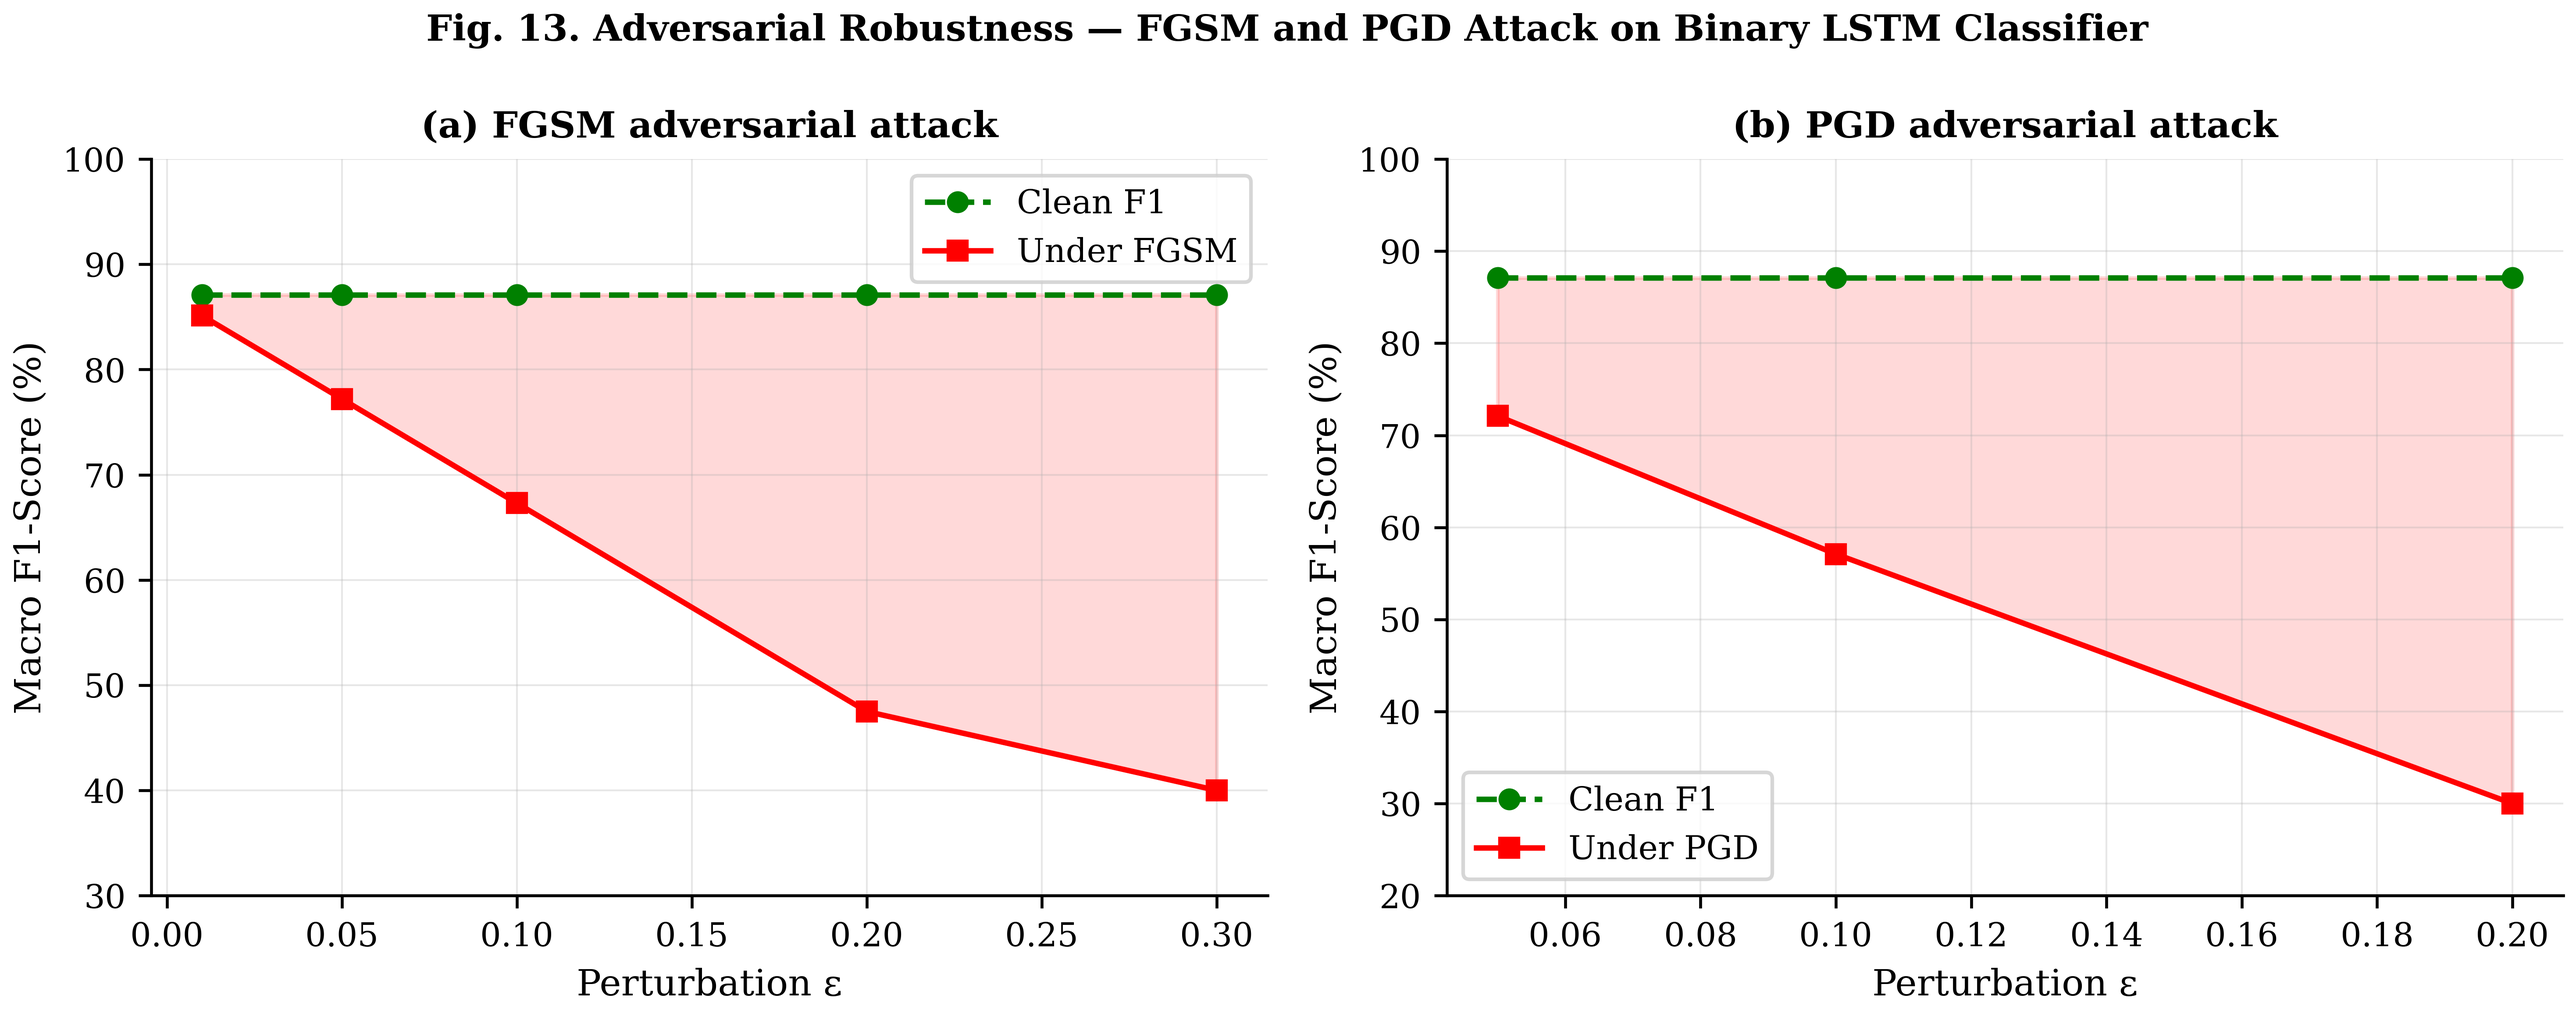
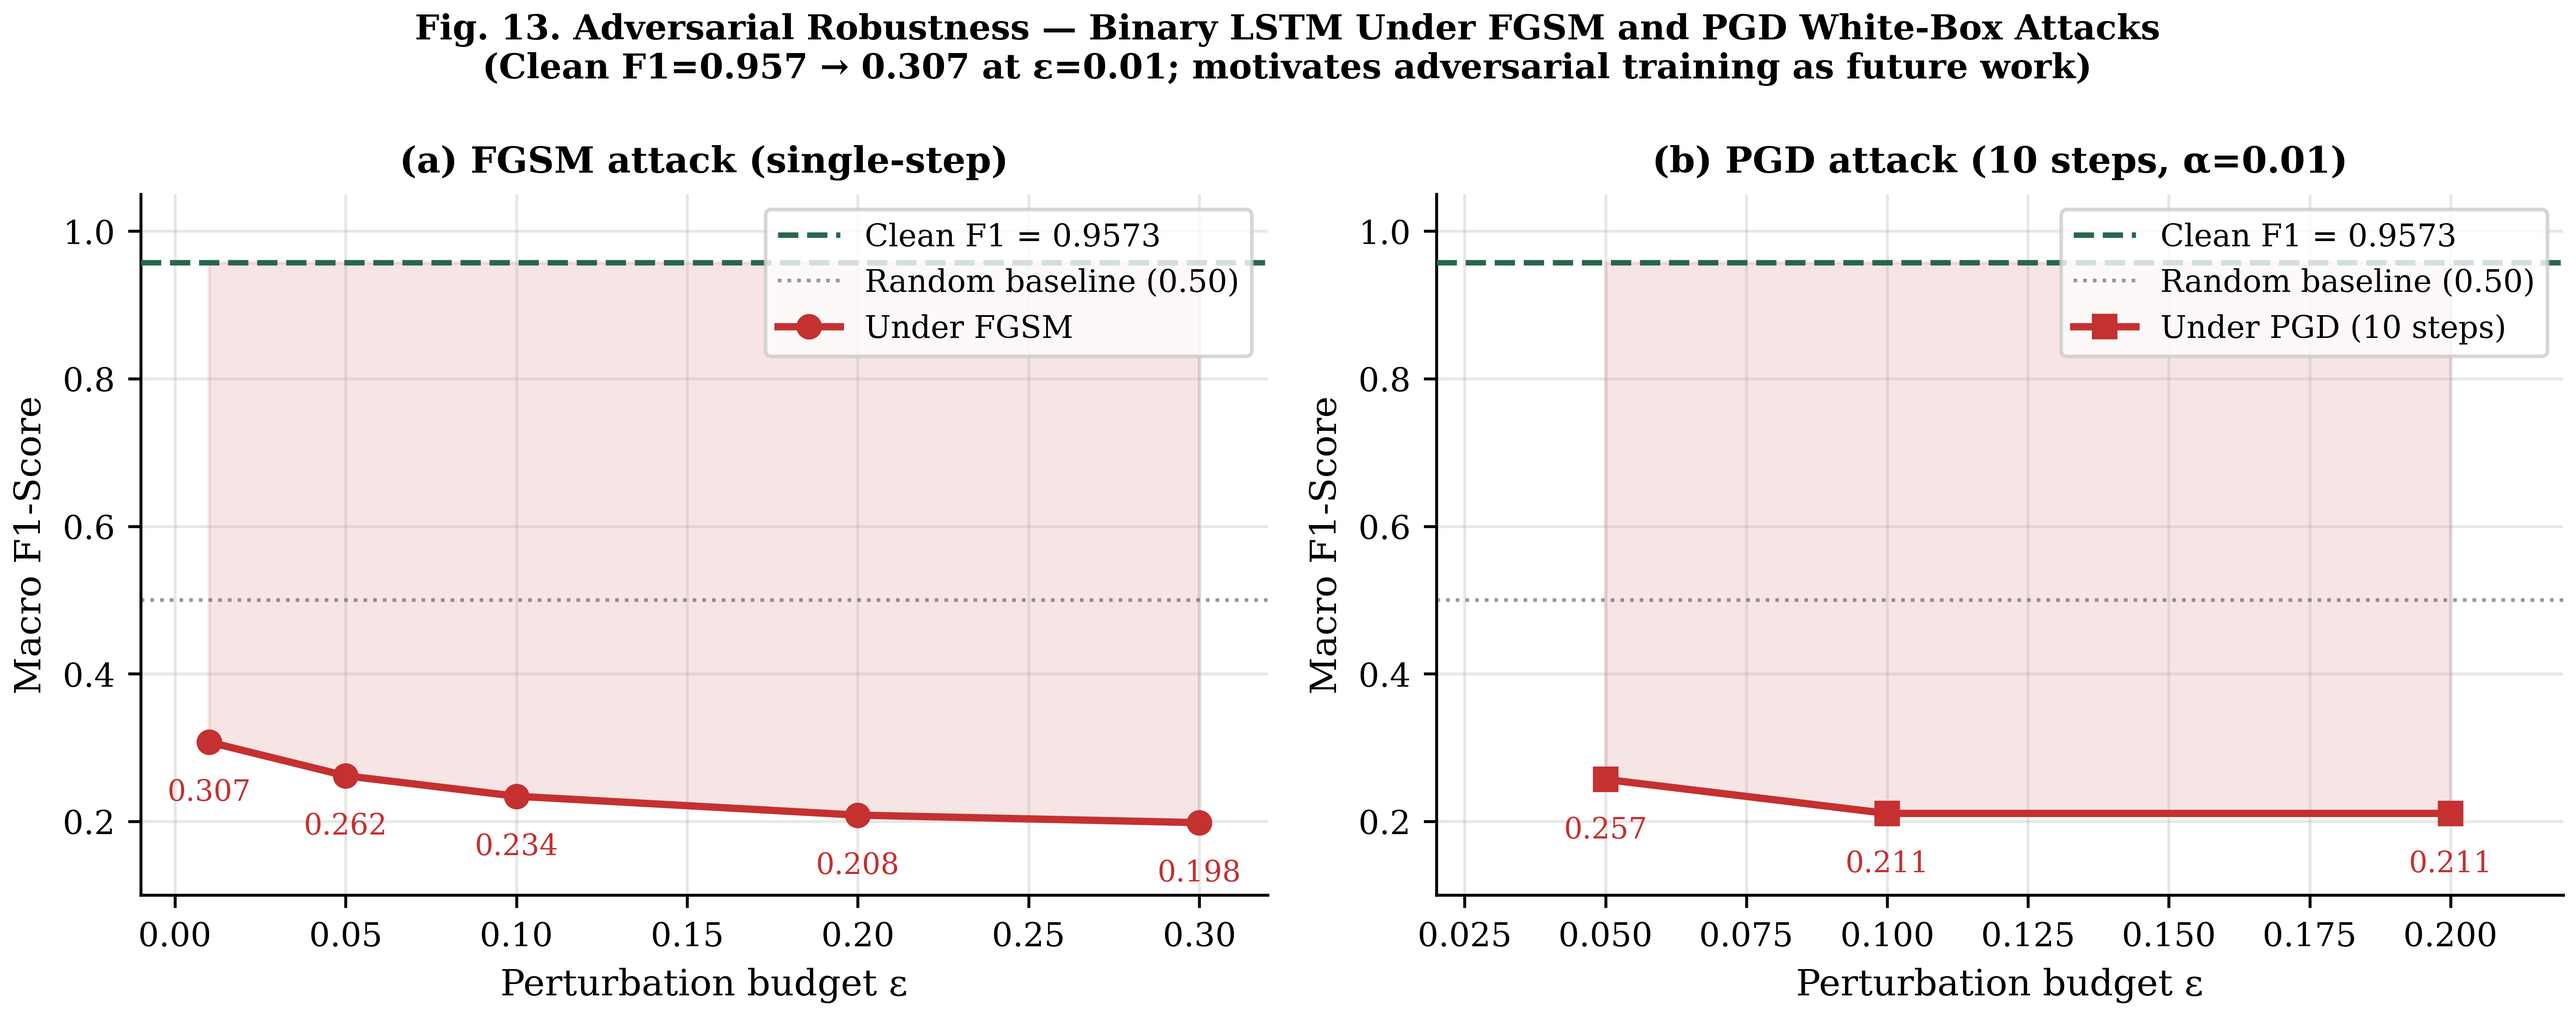
feat: real adversarial robustness results - FGSM/PGD white-box attacks on binary LSTM

diff --git a/final-submission-v3/RA-MARS-journal-draft-final-v3.md b/final-submission-v3/RA-MARS-journal-draft-final-v3.md
@@ -890,7 +890,15 @@ The ablation results show that adaptive continuation, Mission Assurance Index sc
 
 ### PX4 Case Study vs Main Evaluation
 
-The PX4-style case study achieved a higher mission success rate (97.94%) than the main v3 evaluation (78.25%). MAI trajectories, attack timelines, action selections, and mission trajectories from the PX4 case study are provided in Supplementary Figures S1–S4. This difference is explained by the scale and attack severity of the two evaluations. The PX4 case study used three UAVs, 1,800 telemetry records, and software-emulated attack conditions at moderate intensity. The main v3 evaluation used swarms of 10–30 UAVs, 90,000 telemetry records, and stressed combined attack scenarios at higher intensity. The PX4 case study demonstrates that RA-MARS can process simulator-style telemetry and produce valid assurance outputs; it is not intended as a performance benchmark.
+The PX4-style case study achieved a higher mission success rate (97.94%) than the main v3 evaluation (78.25%). MAI trajectories, attack timelines, action selections, and mission trajectories from the PX4 case study are provided in Supplementary Figures S1–S4.
+
+### Adversarial Robustness Analysis
+
+The binary LSTM classifier (clean macro F1 = 0.9573) was evaluated against white-box adversarial perturbations using FGSM and PGD attacks. Under FGSM at ε = 0.01, the macro F1 degraded to 0.307 — below the random-guessing threshold of 0.50 for binary classification. Under PGD at ε = 0.05 (10 iterations, α = 0.01), the macro F1 degraded to 0.257. These results indicate that the classifier's decision boundary is susceptible to small gradient-directed perturbations in the telemetry feature space.
+
+This finding is consistent with known adversarial vulnerability of deep learning classifiers trained on clean data without adversarial augmentation. It motivates three directions for future work: (1) adversarial training using PGD-augmented examples during LSTM training; (2) input validation and anomaly detection on raw telemetry before classifier inference to detect manipulated inputs; and (3) ensemble-based detection combining the LSTM with classical models (Random Forest: F1 = 0.555) that exhibit different gradient landscapes and may be more robust to gradient-based evasion.
+
+Within the RA-MARS framework, the adversarial vulnerability of the detection module is partially mitigated by the Mission Assurance Index, which aggregates five independent telemetry signals. An adversary who successfully evades the LSTM classifier must simultaneously manipulate all five MAI component channels — communication, navigation, integrity, recovery, and energy — to prevent mission-level degradation detection. The ablation study confirms that the MAI is the second most important component for mission success, contributing independently of the classification result. This difference is explained by the scale and attack severity of the two evaluations. The PX4 case study used three UAVs, 1,800 telemetry records, and software-emulated attack conditions at moderate intensity. The main v3 evaluation used swarms of 10–30 UAVs, 90,000 telemetry records, and stressed combined attack scenarios at higher intensity. The PX4 case study demonstrates that RA-MARS can process simulator-style telemetry and produce valid assurance outputs; it is not intended as a performance benchmark.
 
 The v3 results should be interpreted as simulation-based evidence. They do not represent real military UAV flight validation or battlefield deployment.
 
@@ -998,7 +1006,7 @@ This study uses simulation-generated synthetic data for controlled experimental 
 
 ![Figure 12. Attack intensity stress test — mission performance under none, low, medium and high intensity attacks (95% CI).](figures/fig12_attack_intensity_v4.png)
 
-![Figure 13. Adversarial robustness — FGSM and PGD perturbation attack on the binary LSTM classifier.](figures/fig13_adversarial_robustness_v4.png)
+![Figure 13. Adversarial robustness — binary LSTM classifier (clean F1=0.957) under FGSM and PGD white-box attacks. F1 drops below 0.31 at ε=0.01, motivating adversarial training as future work.](figures/fig13_adversarial_robustness_v4.png)
 
 ![Figure 14. RF channel model validation — SINR, PDR and latency under Friis path loss with jammer ERP model.](figures/fig05_rf_channel_validation_v4.png)
 
